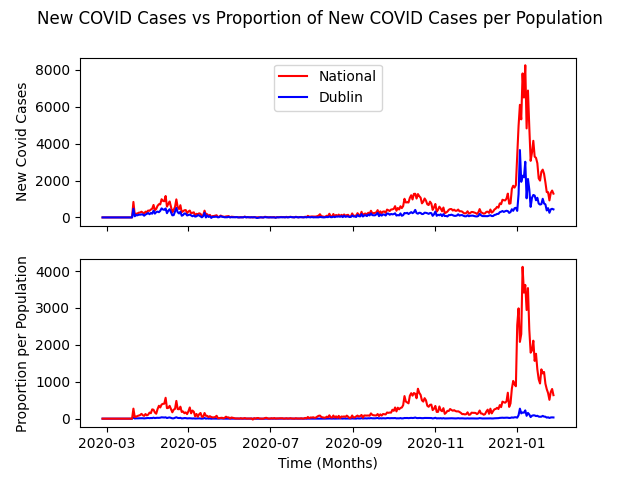
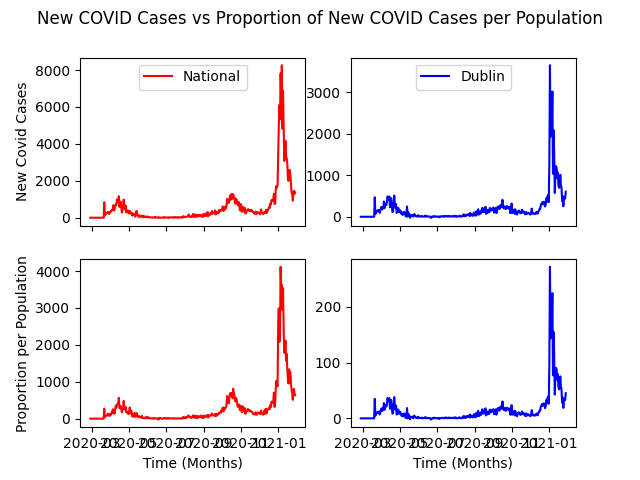
last

diff --git a/Project Draft.py b/Project Draft.py
@@ -1,4 +1,3 @@
-import numpy as np
 import pandas as pd
 from urllib.request import urlretrieve
 import matplotlib.pyplot as plt
@@ -81,16 +80,23 @@ ax2.legend(loc="upper left")
 plt.show()
 fig2.savefig("Proportion of COVID Cases per Population")
 
-fig3, ax = fc(2, sharex=True)
+fig3, ax = fc(2,2, sharex=True)
 fig3.suptitle('New COVID Cases vs Proportion of New COVID Cases per Population')
-ax[0].plot(NewCases_df2.index, NewCases_df2["National"], color='r',label='National'),
-ax[0].plot(NewCases_df2.index, NewCases_df2["Dublin"], color='b', label='Dublin')
-ax[1].plot(Pop_df2.index, Pop_df2["Dublin"], color='b', label='Dublin')
-ax[1].plot(Pop_df2.index, Pop_df2["National"], color='r', label='National')
-ax[1].set_xlabel("Time (Months)")
-ax[0].set_ylabel("New Covid Cases")
-ax[1].set_ylabel("Proportion per Population")
-ax[0].legend(loc="upper center")
+ax[0,0].plot(NewCases_df2.index, NewCases_df2["National"], color='r',label='National'),
+ax[0,1].plot(NewCases_df2.index, NewCases_df2["Dublin"], color='b', label='Dublin')
+ax[1,1].plot(Pop_df2.index, Pop_df2["Dublin"], color='b', label='Dublin')
+ax[1,0].plot(Pop_df2.index, Pop_df2["National"], color='r', label='National')
+ax[1,0].set_xlabel("Time (Months)")
+ax[1,1].set_xlabel("Time (Months)")
+ax[0,0].set_ylabel("New Covid Cases")
+ax[1,0].set_ylabel("Proportion per Population")
+ax[0,0].legend(loc="upper center")
+ax[0,1].legend(loc="upper center")
 plt.show()
-
 fig3.savefig("New COVID Cases vs Proportion of New COVID Cases per Population")
+
+Merged_df=NewCases_df2.merge(Pop_df2, on='TimeStamp')
+print(Merged_df)
+print(Merged_df.head())
+print(Merged_df.columns)
+print(Merged_df[["Dublin_x", "National_x", "Dublin_y", "National_y",]].max())
